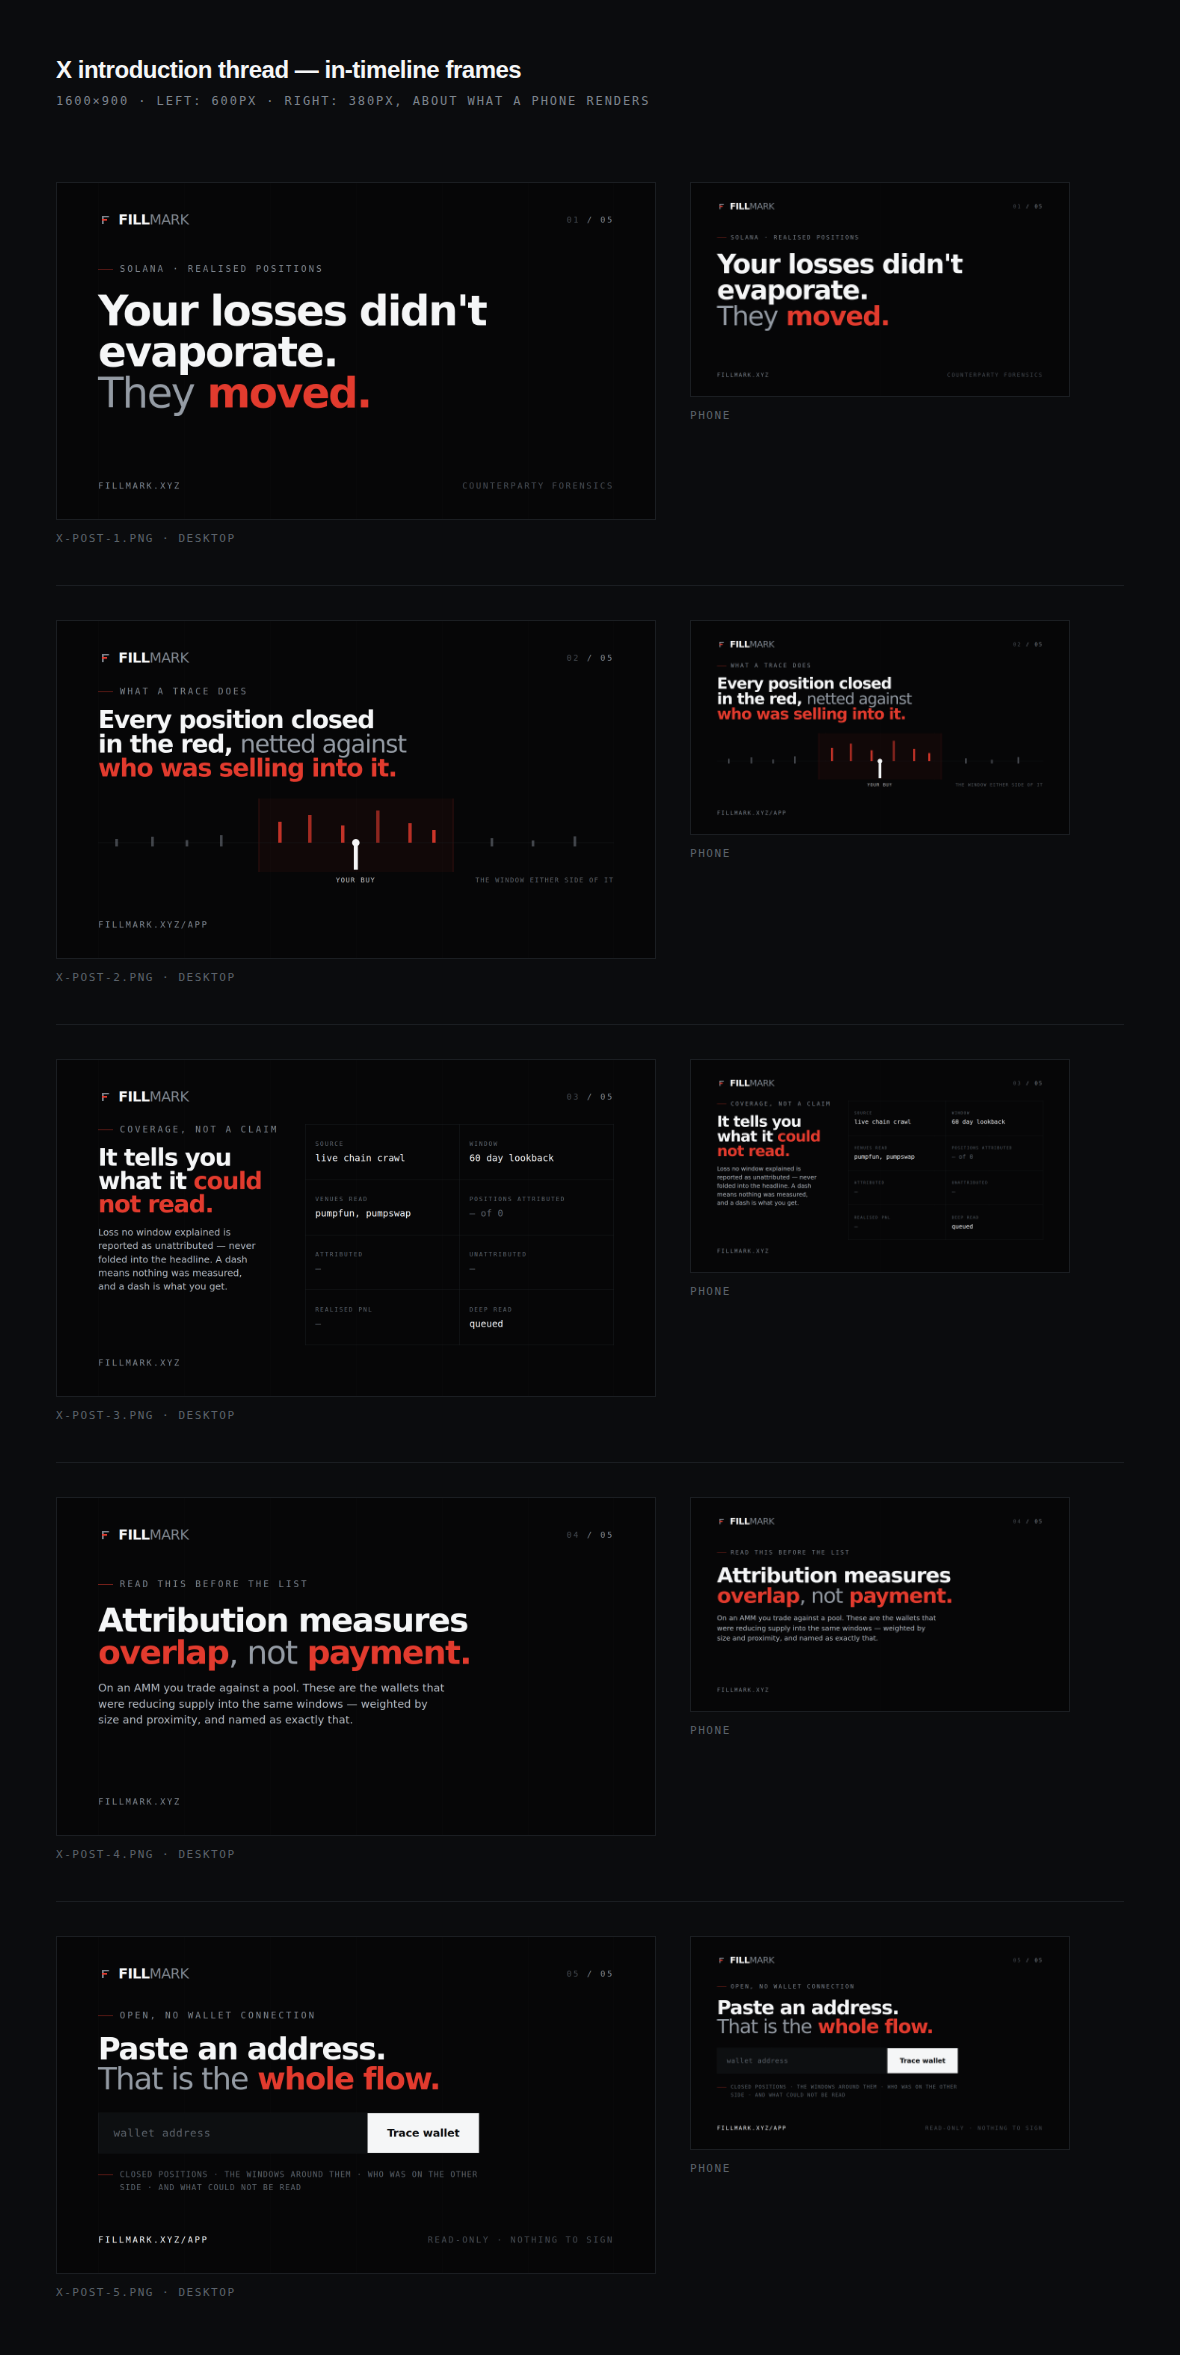
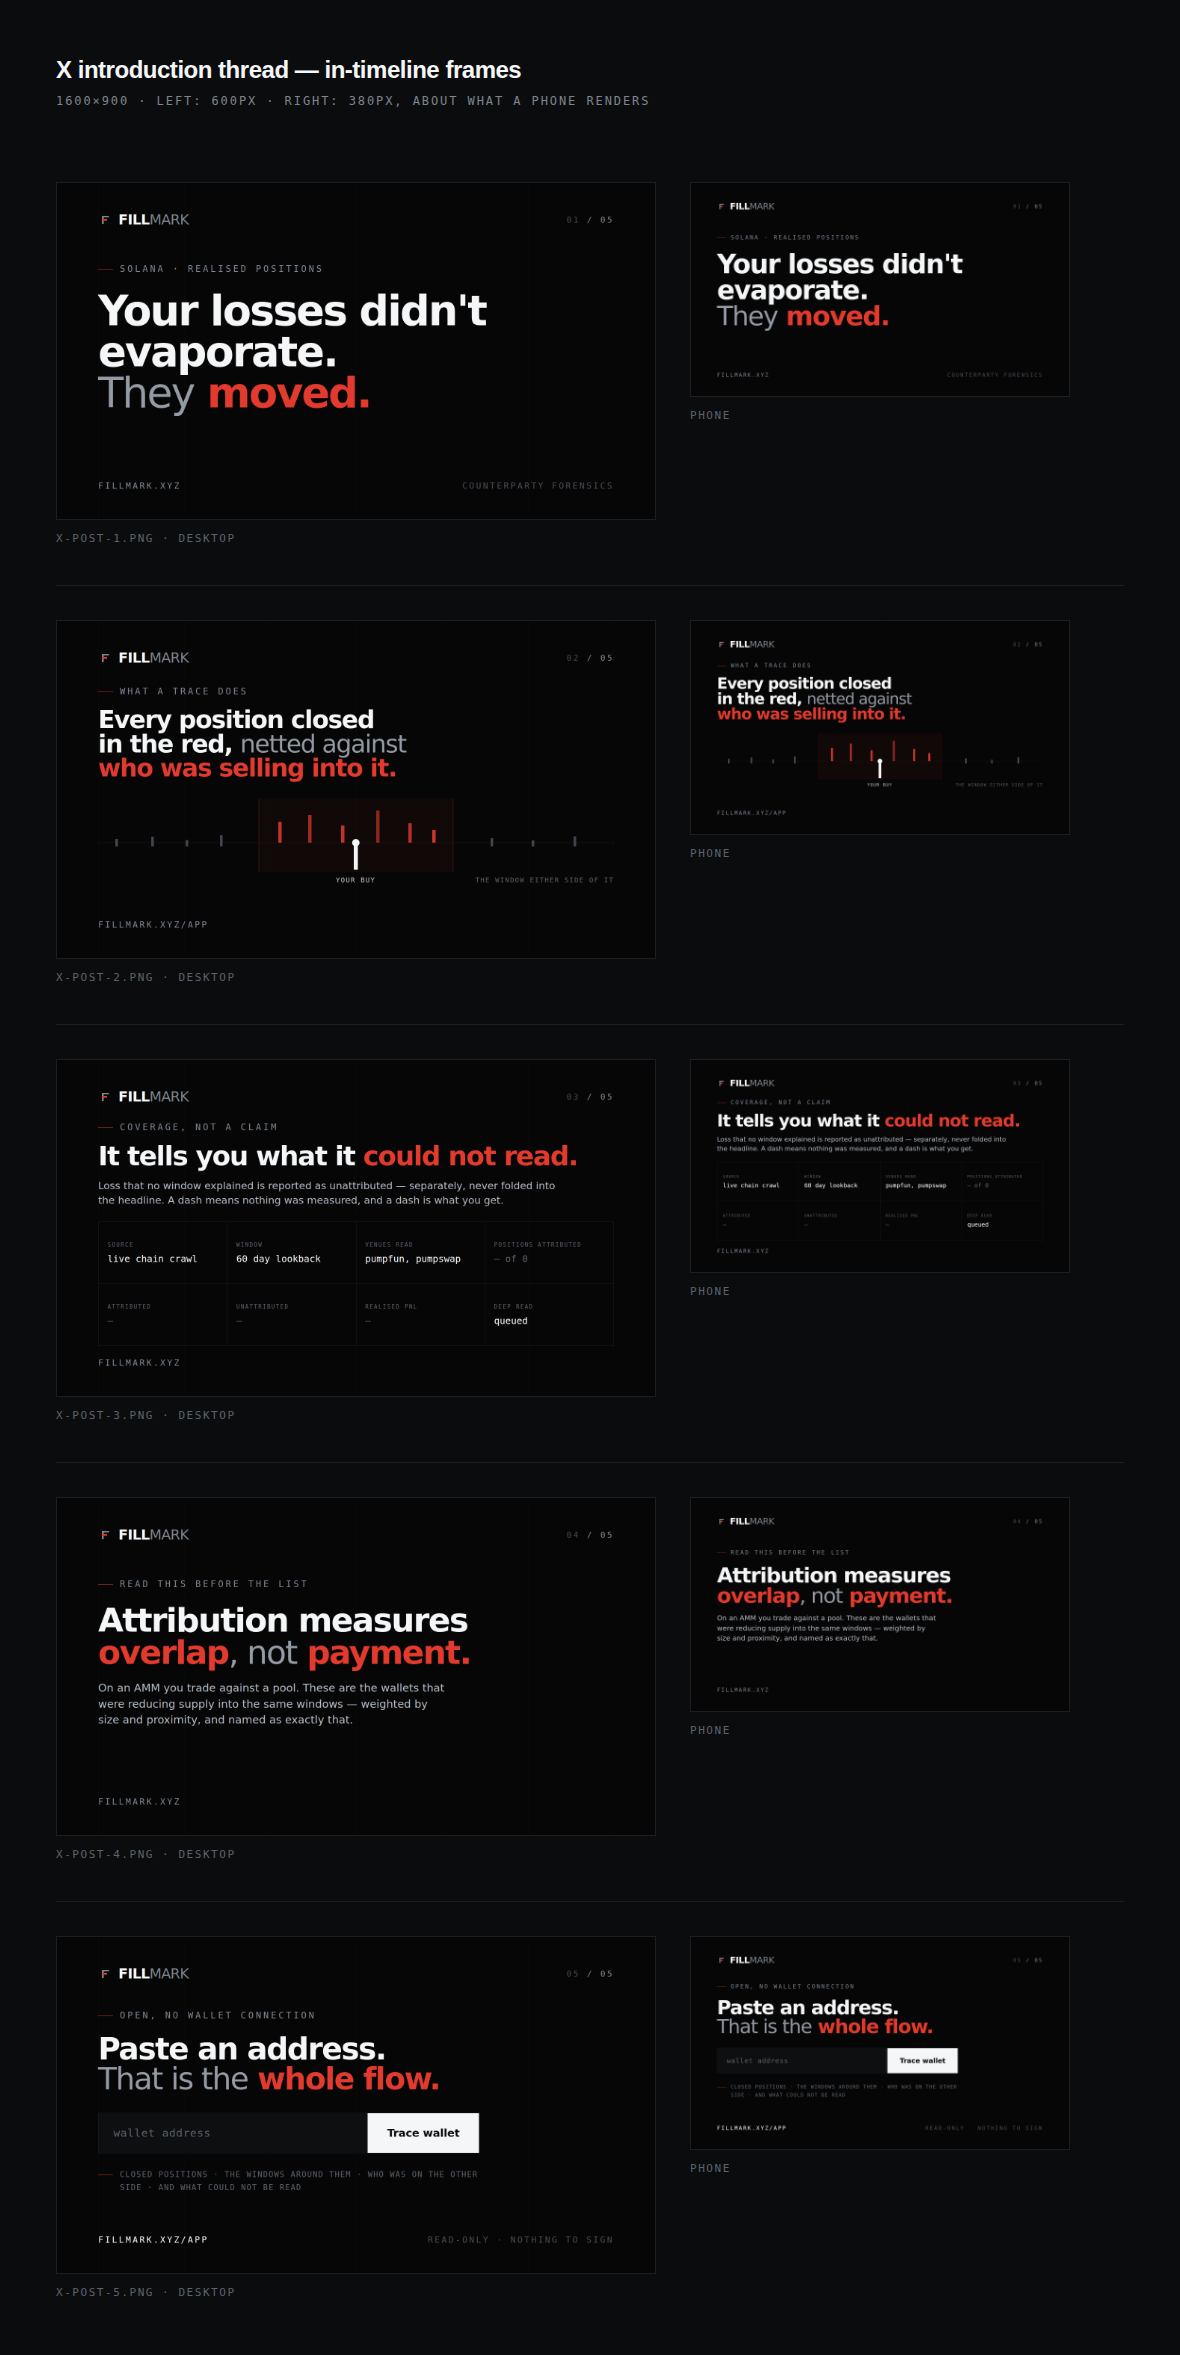
Give the coverage frame the field, and make the landing lockup a link
Two unrelated fixes, both reported from a screenshot.

The coverage banner put the table in a column beside a paragraph, so the
headline stopped mid-frame and a third of the canvas sat empty under it. At the
~380px a phone gives a timeline image, empty space that size does not read as
restraint — it reads as an image that failed to load. The table is the argument
on that frame, so it now spans the field: four columns, rows sized `1fr` so they
grow to the footer at any row count, headline on one line above it.

And the landing page was the only page whose lockup was a plain `div`. Every
other page — the console, the index, lead-time, the 404 — has carried
`<a class="logo" href="/">` all along. The reasoning for the odd one out is
visible in the markup: the landing page *is* `/`, so there was nowhere to go.
That is not what a reader expects. The lockup is the way back from anywhere,
including from halfway down this page, and a mark that does nothing when clicked
reads as a broken site rather than as a deliberate no-op.

The global `a{color:inherit;text-decoration:none}` reset already applies, so the
rendering is unchanged to the pixel; what is new is that it is clickable and
keyboard-focusable. The `<!--LOGO-->` markers are untouched, so `set-logo.mjs`
still rewrites the mark on every page.

Claude-Session: https://claude.ai/code/session_01XDnkknTF1f3Z9MZT3pF2yM

Changed region(s): [[0.0915, 0.465, 0.4881, 0.558], [0.6102, 0.465, 0.8542, 0.527]]

diff --git a/docs/design/fillmark-landing.html b/docs/design/fillmark-landing.html
@@ -295,7 +295,13 @@ footer a:hover{color:var(--wh)}
 
 <nav class="nav">
   <div class="nav-in">
-    <div class="logo"><!--LOGO--><svg class="mark" viewBox="0 0 24 24" aria-hidden="true" shape-rendering="crispEdges"><rect x="6.5" y="5.5" width="3" height="14" fill="#7E858E"/> <rect x="6.5" y="5.5" width="12" height="3" fill="#7E858E"/> <rect x="6.5" y="11" width="8.5" height="3" fill="#E23B2E"/></svg><!--/LOGO-->FILL<i>MARK</i></div>
+    <!-- A link, like the lockup on every other page. This was the one page
+         where it was a plain div — on the theory that the landing page is
+         already `/`, so there was nowhere to go. That is not what a reader
+         expects: the lockup is the way back from anywhere, including from
+         halfway down this page, and a mark that does nothing when clicked
+         reads as a broken site rather than as a deliberate no-op. -->
+    <a class="logo" href="/"><!--LOGO--><svg class="mark" viewBox="0 0 24 24" aria-hidden="true" shape-rendering="crispEdges"><rect x="6.5" y="5.5" width="3" height="14" fill="#7E858E"/> <rect x="6.5" y="5.5" width="12" height="3" fill="#7E858E"/> <rect x="6.5" y="11" width="8.5" height="3" fill="#E23B2E"/></svg><!--/LOGO-->FILL<i>MARK</i></a>
     <div class="nav-l">
       <button id="mbtn" aria-expanded="false" aria-controls="mega">Features<span class="car">▼</span></button>
       <a href="/extractors/" class="desk">Index</a>
